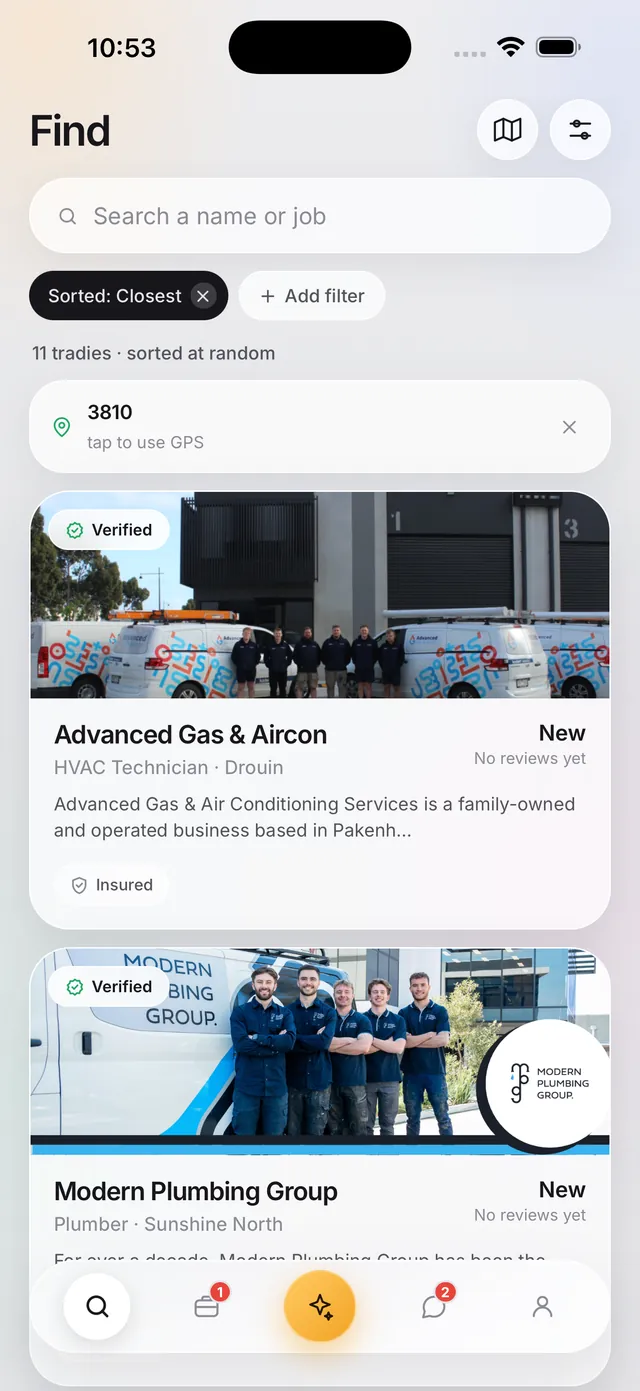
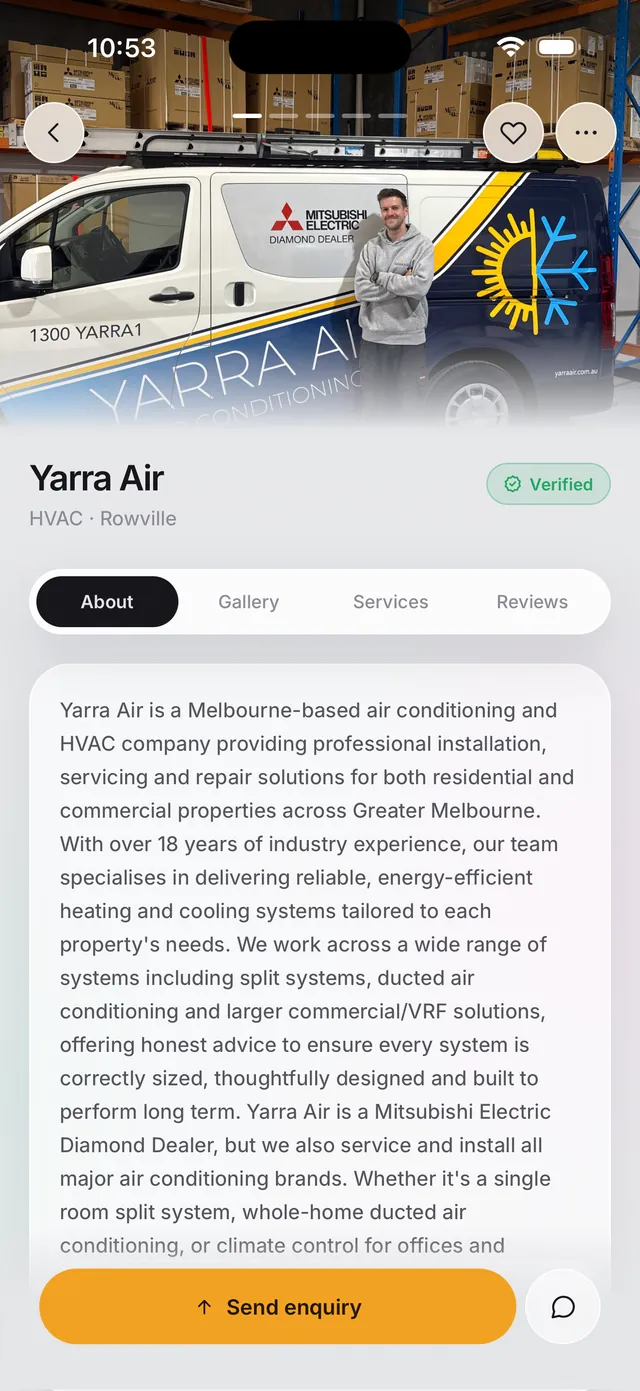
Landing: 3 distinct hero screens, no repeats in carousel, fix founder note
- Hero now shows 3 different screens (app-browse was the same "Find" image as
  app-home). app-browse -> tradie profile, app-filters -> intro, so every hero +
  showcase slot is a distinct image (verified: hero 3/3 distinct, no adjacent dup
  in the carousel).
- Founder note corrected: Jake is a PLUMBER who built Trust Trade himself, not a
  "tradie's son" (removed the old-man/ex-software framing here and in the FAQ).

diff --git a/src/pages/ForTradiesPage.jsx b/src/pages/ForTradiesPage.jsx
@@ -32,7 +32,7 @@ const TRADIE_FAQ_GROUPS = [
   {
     name: "About the business",
     items: [
-      { q: "Who's behind Trust Trade?", a: "Jake, a tradie's son, ex-software, running Trust Trade solo for now. ABN 40 873 784 535, registered in Victoria, no outside investment yet (and I like it that way for now)." },
+      { q: "Who's behind Trust Trade?", a: "Jake, a plumber who built Trust Trade himself and runs it solo for now. ABN 40 873 784 535, registered in Victoria, no outside investment yet (and I like it that way for now)." },
       { q: "Are you regulated by anyone?", a: "Trust Trade itself is a platform, not a trade. The tradies we list are regulated by their state authority (VBA, ESV, etc.) and we verify against those regulators. Consumer Affairs Victoria oversees us as an Australian Consumer Law-bound business like any other marketplace." },
       { q: "Can I invest / partner / sell into Trust Trade?", a: "We're not raising at the moment. For partnerships, insurance, regulator integrations, trade associations, email jake@trusttrade.au with a one-pager." },
       { q: "Is the name actually trademarked?", a: "Yep, Trust Trade® is a registered Australian trademark in classes 9, 35 and 42 (software, marketplace services, app development). Use of the mark for anything else needs our written nod." },
@@ -304,9 +304,9 @@ export default function ForTradiesPage() {
             <div className="col-label">A note from us</div>
             <div>
               <blockquote>
-                "I'm a tradie's son. The lead-gen rort cost my old man four years of work he should
-                have been billing.
-                <span className="accent"> Trust Trade is the platform he should've had.</span>"
+                "I'm a plumber. The lead-gen rort bled me dry chasing jobs that never landed, so I
+                built it myself.
+                <span className="accent"> Trust Trade is the platform I wish I'd had.</span>"
               </blockquote>
               <div className="quote-attr">
                 <div className="avatar">J</div>
